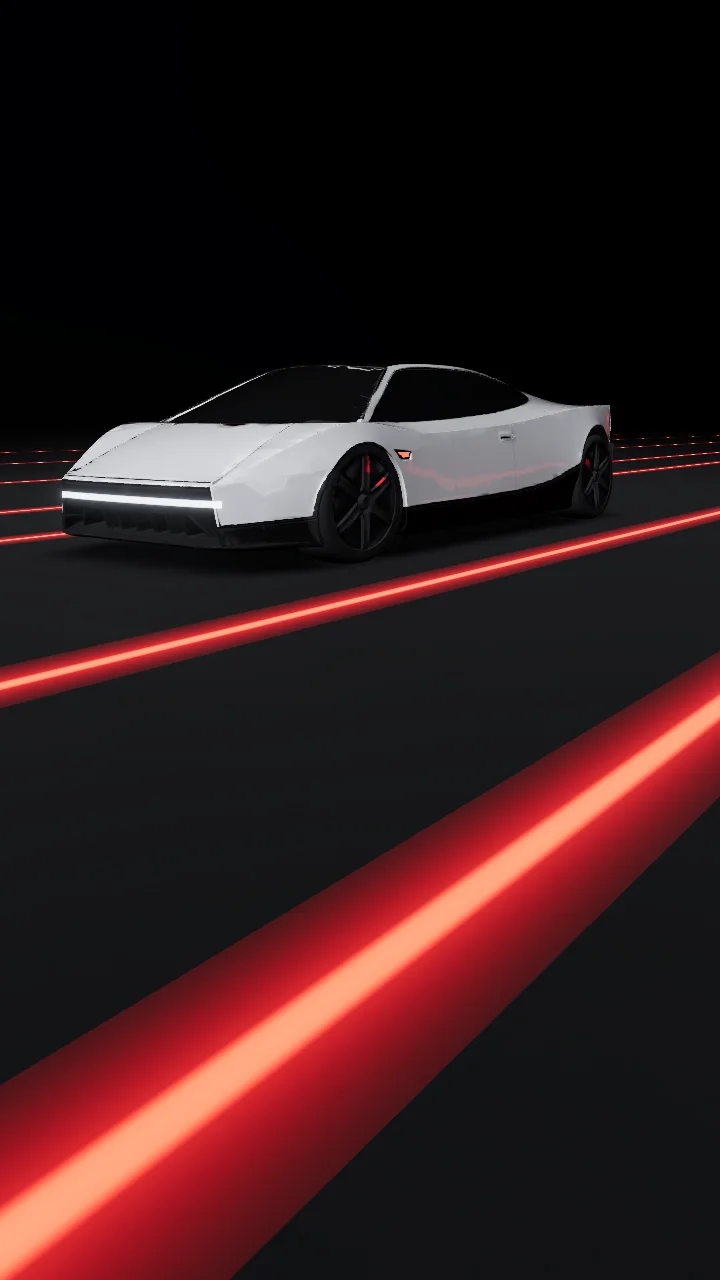
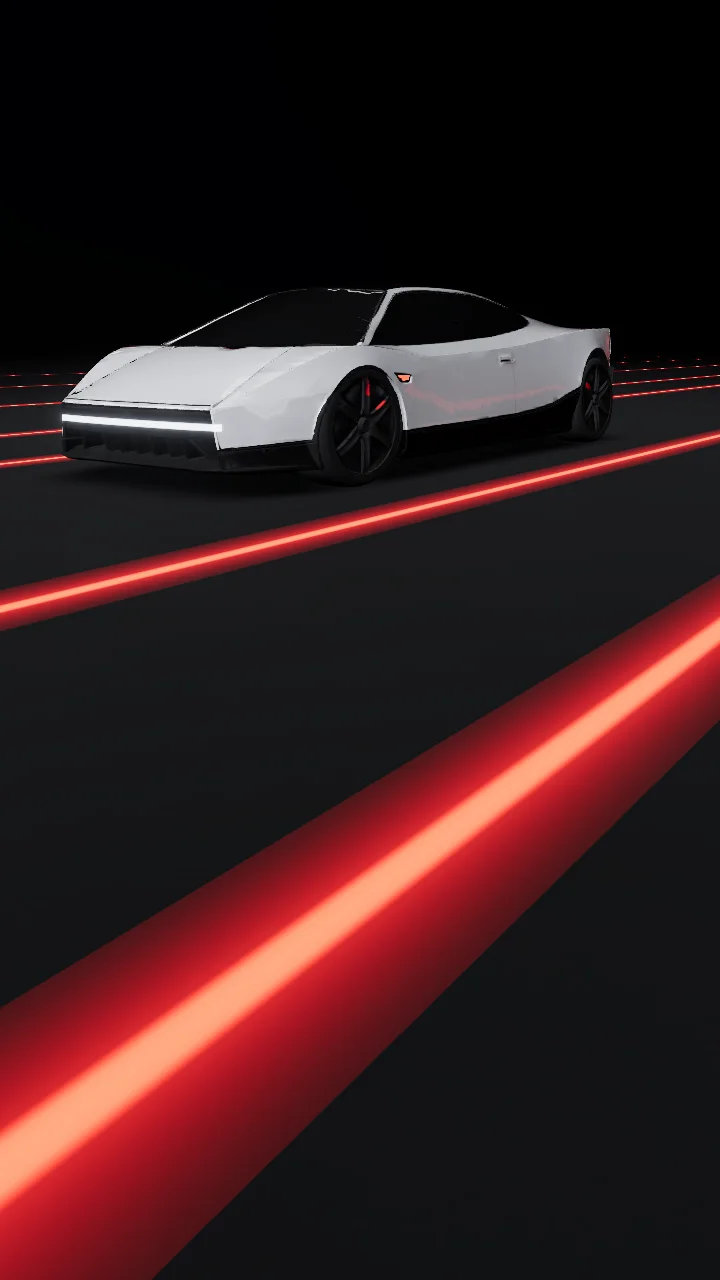
Fix loader hanging on low-power devices; fit hero headline
- Loader: in stills mode (≤4 cores / ≤4 GB, phones, reduced motion) the last 10 % waited
  for a 3D scene that is never created. Ready now means the first still has loaded.
- Loader can never hang: lights come on after 20 s regardless.
- 3D chunk load failure or scene crash falls back to the pre-rendered stills.
- Hero: ROADSTER no longer clipped; car framed clear of the headline (separate
  portrait / landscape lift); hero stills re-rendered; scroll cue hidden on phones.

Claude-Session: https://claude.ai/code/session_01Lt8p2RY4XXdwGGs1wY5c2Y

diff --git a/src/App.jsx b/src/App.jsx
@@ -1,4 +1,4 @@
-import { lazy, Suspense, useEffect, useState } from 'react';
+import { Component, lazy, Suspense, useEffect, useState } from 'react';
 import { BrowserRouter, Route, Routes, useLocation } from 'react-router-dom';
 import { ScrollTrigger } from './lib/gsap';
 import { initLenis } from './lib/lenis';
@@ -17,6 +17,21 @@ const Configure = lazy(() => import('./pages/Configure'));
 const Specs = lazy(() => import('./pages/Specs'));
 const NotFound = lazy(() => import('./pages/NotFound'));
 
+/** If WebGL or the scene fails for any reason, switch to the pre-rendered stills instead of a black page. */
+class SceneBoundary extends Component {
+  state = { failed: false };
+  static getDerivedStateFromError() {
+    return { failed: true };
+  }
+  componentDidCatch(err) {
+    console.warn('3D scene failed, using stills:', err);
+    useUI.getState().set({ renderMode: 'stills' });
+  }
+  render() {
+    return this.state.failed ? null : this.props.children;
+  }
+}
+
 /** The persistent WebGL canvas: its chunk is requested only after the first paint. */
 function LiveScene() {
   const [Scene, setScene] = useState(null);
@@ -27,6 +42,10 @@ function LiveScene() {
         if (!alive) return;
         useUI.getState().set({ chunkLoaded: true });
         setScene(() => m.default);
+      })
+      .catch((err) => {
+        console.warn('3D chunk failed to load, using stills:', err);
+        useUI.getState().set({ renderMode: 'stills' });
       });
     const id = requestAnimationFrame(() => setTimeout(load, 0));
     return () => {
@@ -34,7 +53,11 @@ function LiveScene() {
       cancelAnimationFrame(id);
     };
   }, []);
-  return Scene ? <Scene /> : null;
+  return Scene ? (
+    <SceneBoundary>
+      <Scene />
+    </SceneBoundary>
+  ) : null;
 }
 
 function RouteEffects() {

diff --git a/src/sections/LightsOn.jsx b/src/sections/LightsOn.jsx
@@ -95,8 +95,8 @@ export default function LightsOn() {
 
         <div ref={block} data-block className="absolute bottom-[96px] left-0 right-0 z-10 sm:bottom-[104px]">
           <div className="gutter">
-            <div className="scrim-bl max-w-[1100px]">
-              <Headline as="h1" ref={title} className="display text-hero" style={{ visibility: 'hidden' }}>
+            <div className="scrim-bl">
+              <Headline as="h1" ref={title} className="display whitespace-nowrap leading-[0.95]" style={{ visibility: 'hidden', fontSize: 'clamp(2.5rem, 10vw, 11.5rem)' }}>
                 Roadster
               </Headline>
               <p ref={stats} className="mono mt-6 whitespace-pre-wrap text-[13px] uppercase tracking-[0.12em] text-white sm:text-[15px]" style={{ visibility: 'hidden' }}>
@@ -121,7 +121,7 @@ export default function LightsOn() {
           </div>
         </div>
 
-        <div className="rm-hide absolute bottom-6 right-[var(--gutter)] z-10 flex flex-col items-center gap-3" aria-hidden="true">
+        <div className="rm-hide absolute bottom-6 right-[var(--gutter)] z-10 hidden flex-col items-center gap-3 md:flex" aria-hidden="true">
           <span className="label [writing-mode:vertical-rl]">Scroll</span>
           <span className="relative block h-16 w-[2px] bg-rig">
             <span ref={cue} className="led-line-v absolute inset-0 block" style={{ transform: 'scaleY(0)' }} />

diff --git a/src/components/Loader.jsx b/src/components/Loader.jsx
@@ -5,6 +5,7 @@ import BrandImg from './BrandImg';
 
 const DOTS = 12;
 const SEEN = 'rn:loaded';
+const MAX_WAIT_MS = 20000; // never hold the page hostage: after 20 s the lights come on regardless
 
 /**
  * "Lights on" loader. 12 floodlight dots switch on with REAL progress:
@@ -31,11 +32,17 @@ export default function Loader() {
       return;
     }
     let fontsDone = false;
+    const started = performance.now();
     document.fonts?.ready.then(() => (fontsDone = true));
     const tick = () => {
       const s = useUI.getState();
       const assets = s.renderMode === 'live' ? s.loadProgress ?? 0 : s.stillsProgress ?? 0;
-      const total = (fontsDone ? 0.1 : 0) + (s.chunkLoaded || s.renderMode !== 'live' ? 0.1 : 0) + assets * 0.7 + (s.sceneReady ? 0.1 : 0);
+      // live: the last 10 % is the compiled scene; stills: there is no scene, the first still being in is "ready"
+      const ready = s.renderMode === 'live' ? s.sceneReady : (s.stillsProgress ?? 0) >= 1;
+      const timedOut = performance.now() - started > MAX_WAIT_MS;
+      const total = timedOut
+        ? 1
+        : (fontsDone ? 0.1 : 0) + (s.chunkLoaded || s.renderMode !== 'live' ? 0.1 : 0) + assets * 0.7 + (ready ? 0.1 : 0);
       const target = Math.min(DOTS, Math.floor(total * DOTS + 1e-6));
       while (lit.current < target) {
         const el = dots.current[lit.current];

diff --git a/src/three/director.js b/src/three/director.js
@@ -3,7 +3,7 @@
 
 export const KEYS = [
   // camera
-  'camX', 'camY', 'camZ', 'tgtX', 'tgtY', 'tgtZ', 'fov', 'shake', 'shiftX', 'shiftY', 'orbit', 'parallax',
+  'camX', 'camY', 'camZ', 'tgtX', 'tgtY', 'tgtZ', 'fov', 'shake', 'shiftX', 'shiftY', 'liftL', 'orbit', 'parallax',
   // car (contact-point position + Euler rotation)
   'carX', 'carY', 'carZ', 'carRX', 'carRY', 'carRZ', 'carVis',
   // lights
@@ -20,7 +20,7 @@ export const KEYS = [
 ];
 
 export const DEFAULTS = {
-  camX: 4.3, camY: 0.8, camZ: 5.4, tgtX: 0, tgtY: 0.5, tgtZ: 0.2, fov: 32, shake: 0, shiftX: 0, shiftY: 0, orbit: 0, parallax: 1,
+  camX: 4.3, camY: 0.8, camZ: 5.4, tgtX: 0, tgtY: 0.5, tgtZ: 0.2, fov: 32, shake: 0, shiftX: 0, shiftY: 0, liftL: 0, orbit: 0, parallax: 1,
   carX: 0, carY: 0, carZ: 0, carRX: 0, carRY: 0, carRZ: 0, carVis: 1,
   f0: 1, f1: 1, f2: 1, env: 1, bar: 1, front: 1, glow: 0,
   spot: 0, spX: 0, spY: 11, spZ: 0.5, stX: 0, stY: 0, stZ: 0,

diff --git a/src/three/CameraRig.jsx b/src/three/CameraRig.jsx
@@ -60,7 +60,7 @@ export default function CameraRig() {
 
     // screen-space framing: shift the car away from the text side (x on landscape, y on portrait)
     const sx = aspect >= 1 ? out.shiftX : 0;
-    const sy = aspect < 1 ? out.shiftY : out.shiftY * 0.35;
+    const sy = aspect < 1 ? out.shiftY : out.shiftY * 0.35 + out.liftL;
     if (Math.abs(sx) > 1e-4 || Math.abs(sy) > 1e-4) {
       camera.setViewOffset(size.width, size.height, sx * size.width, sy * size.height, size.width, size.height);
     } else if (camera.view && camera.view.enabled) {

diff --git a/src/three/shots.js b/src/three/shots.js
@@ -115,8 +115,9 @@ export function heroShot(o, p) {
   // scroll: dolly in, then hand over to the walkaround
   const push = smooth(seg(p, 0.0, 1.0)) * glide;
   if (push > 0) orbitCam(o, capture(o), SHOTS.heroPush, push);
-  o.shiftX = -0.13 * glide;
-  o.shiftY = 0.14;
+  o.shiftX = -0.15 * glide;
+  o.shiftY = 0.2; // portrait: car in the upper half
+  o.liftL = 0.055; // landscape: extra lift so the car clears the headline block
   o.orbit = glide;
 }
 
